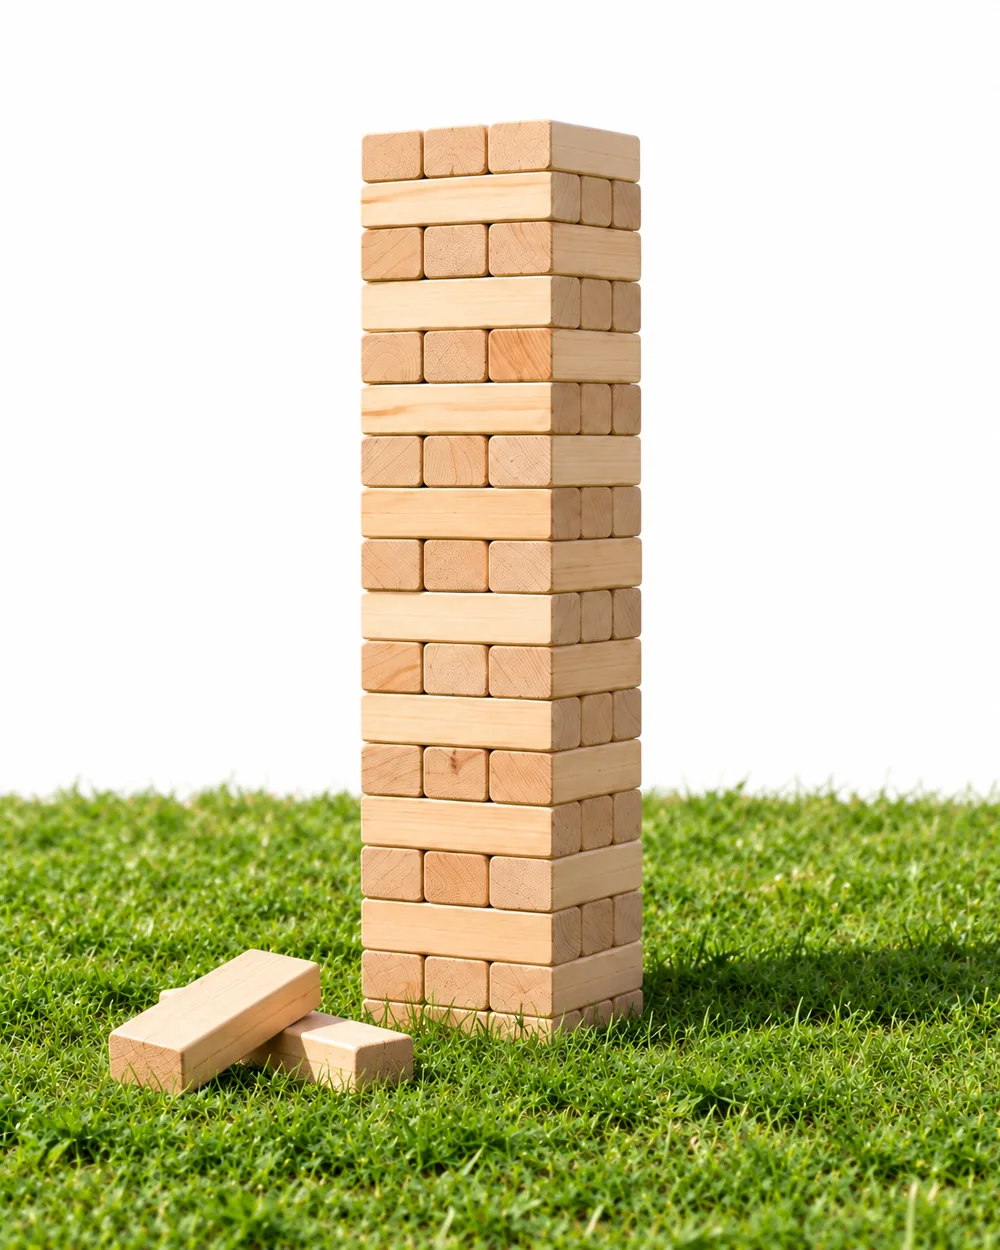
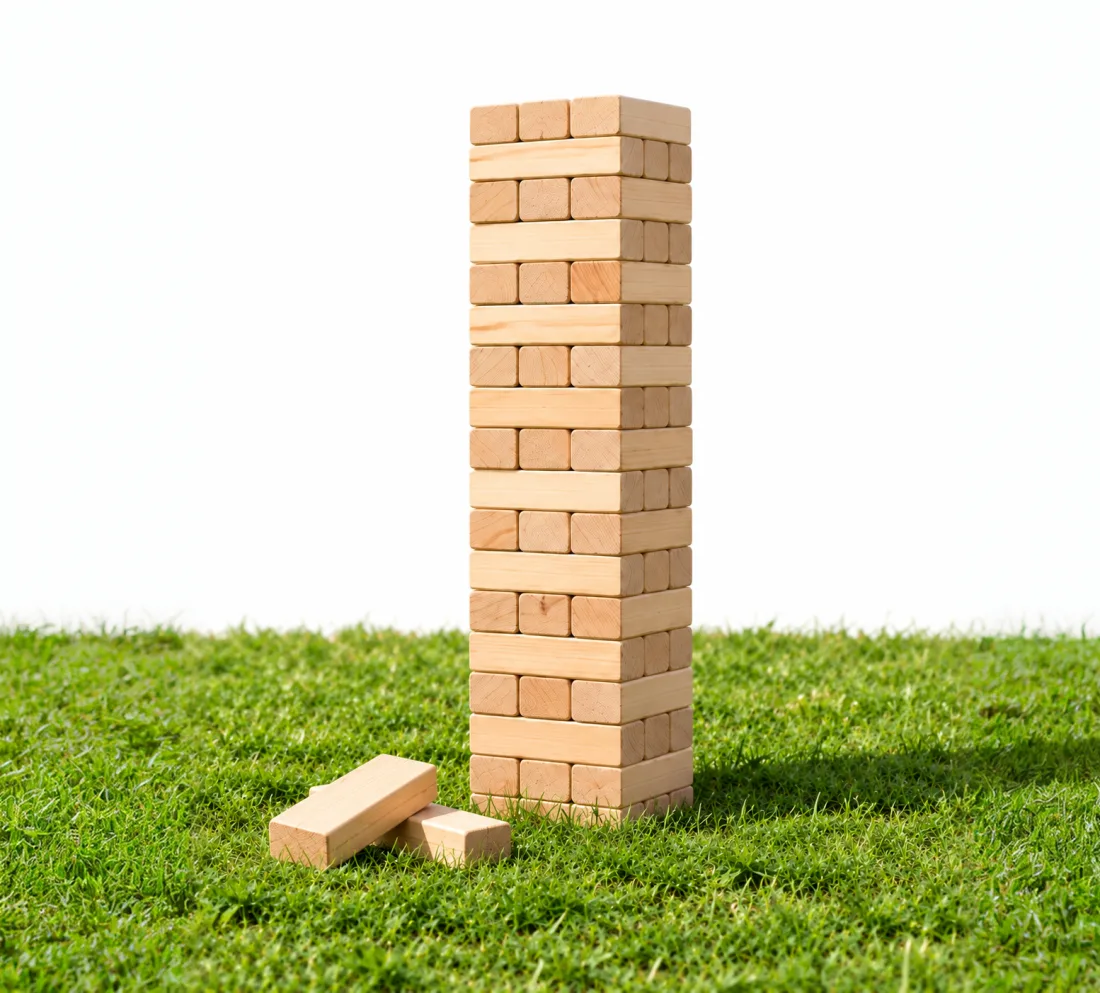
Jenga card photo: the wider shot used in Figma

diff --git a/.claude/figma-export/pushed-2026-10-04.md b/.claude/figma-export/pushed-2026-10-04.md
@@ -86,3 +86,6 @@
 ## 2026-10-05 · Футер як у Фігмі
 - Велике «Бавись»: у Фігмі білі літери 50% без обводки й розмиття; у коді було скло (blur + обводка 2 px) → тепер fill rgba(255,255,255,.5), stroke none. Положення на 1440: 14 під кнопкою (y 396), 26 до нижньої смуги, як у фреймі; було на 50 нижче і заходило на смугу.
 - Колонки 1440: бренд 350, «Навігація» 478, «Популярні ігри» 762, «Контакти» 1044 (було 476 / 757 / 1037). У Фігмі «Навігацію» в 9 футерах 1440 зсунуто 479 → 478 (парні значення). Телефон не змінився, він уже збігався.
+
+## 2026-10-05 · Картка «Велика Дженга»: фото з Фігми
+- У Фігмі всі картки Дженги (каталог 1440 1510:33567, каталог 390, головна) мають ширший кадр 1554×1402 (hash 5a08bbac): вежа менша, більше газону. На сайті був вищий кадр 1000×1250, обрізаний карткою. Замінено assets/photos/games/card-velyka-dzhenga.webp (1100×993, з оригіналу у Фігмі; копія: raw/card-velyka-dzhenga-wide.png). Діє скрізь, де картка гри: каталог, головна, «Інші ігри», мала картка в «Як замовити».
